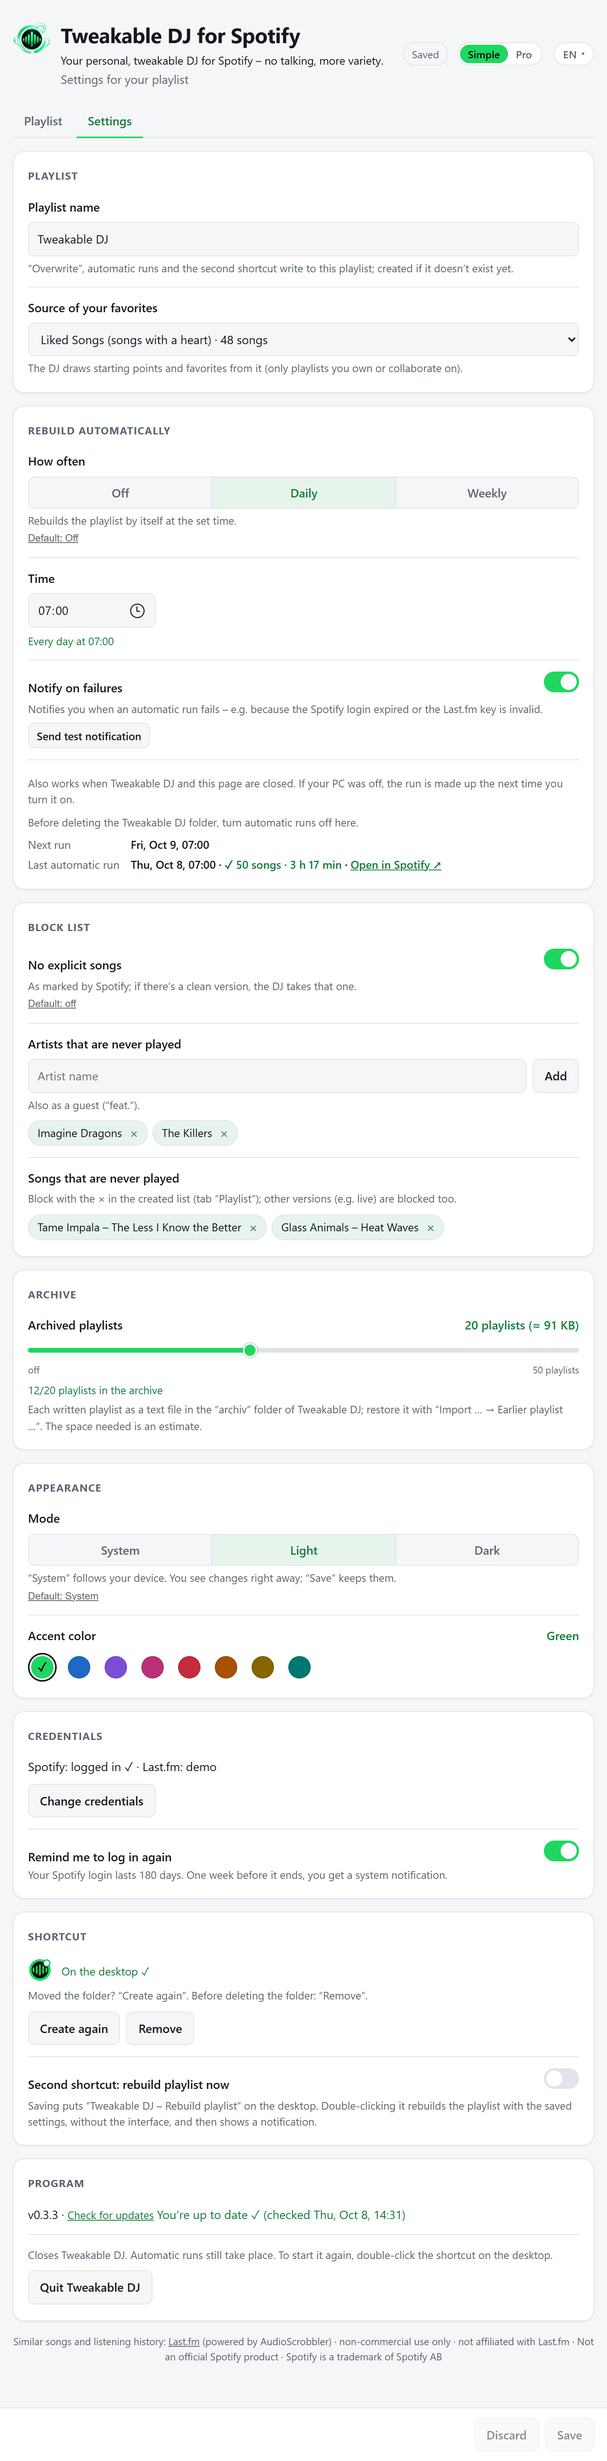
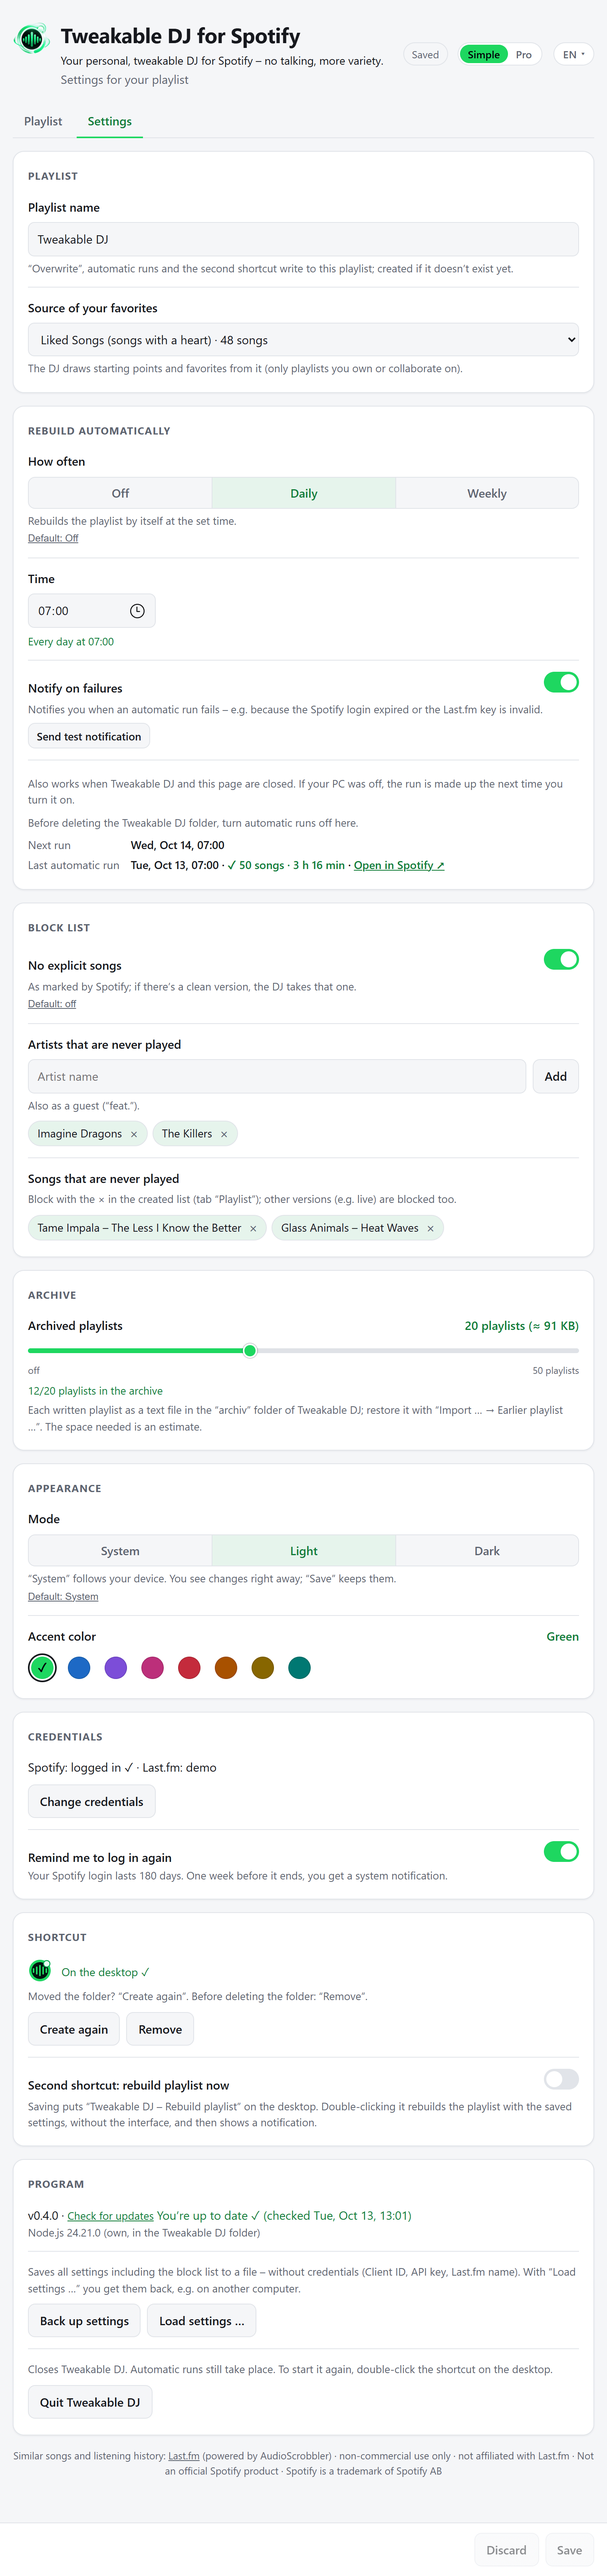
Screenshots for v0.4.0: settings with Node.js info and settings backup

diff --git a/README.de.md b/README.de.md
@@ -13,7 +13,7 @@ Die Oberfläche gibt es auf Deutsch und Englisch, außerdem auf Spanisch und Fra
 <p align="center">
   <picture>
     <source media="(prefers-color-scheme: dark)" srcset="docs/screenshot-playlist.dark.png">
-    <img src="docs/screenshot-playlist.light.png" width="440" alt="Der Tab Playlist in der Ansicht Simple (Einfach) nach Create playlist (Playlist erstellen): oben der Umschalter Simple / Pro mit Simple ausgewählt, die Voreinstellungen mit My current phase (Meine aktuelle Phase) ausgewählt, die Gruppe Length (Länge) mit Number of songs (Anzahl Songs) auf 50 Songs (≈ 3 h 17 min), die Ausgabe mit der Zusammenfassung (Created: 50 Songs · 3 h 17 min, 35 neu, 15 Favoriten · noch nicht in Spotify), den Schritten des Laufs und dem Anfang der Songliste mit × und ♥ hinter jedem Song, die Buttons Overwrite “Tweakable DJ” („Tweakable DJ“ überschreiben), Create new playlist (Neue Playlist anlegen), Save playlist (Playlist speichern) und Import … (Importieren …), der Hinweis, wie lange die Liste gilt und wie eine neue Playlist heißen würde, und ganz unten Discard, Save und Create playlist (Verwerfen, Speichern, Playlist erstellen). Englische Oberfläche.">
+    <img src="docs/screenshot-playlist.light.png" width="440" alt="Der Tab Playlist in der Ansicht Simple (Einfach) nach Create playlist (Playlist erstellen): oben der Umschalter Simple / Pro mit Simple ausgewählt, die Voreinstellungen mit My current phase (Meine aktuelle Phase) ausgewählt, die Gruppe Length (Länge) mit Number of songs (Anzahl Songs) auf 50 Songs (≈ 3 h 13 min), die Ausgabe mit der Zusammenfassung (Created: 50 Songs · 3 h 13 min, 40 neu, 10 Favoriten · noch nicht in Spotify), den Schritten des Laufs und dem Anfang der Songliste mit × und ♥ hinter jedem Song, die Buttons Overwrite “Tweakable DJ” („Tweakable DJ“ überschreiben), Create new playlist (Neue Playlist anlegen), Save playlist (Playlist speichern) und Import … (Importieren …), der Hinweis, wie lange die Liste gilt und wie eine neue Playlist heißen würde, und ganz unten Discard, Save und Create playlist (Verwerfen, Speichern, Playlist erstellen). Englische Oberfläche.">
   </picture>
 </p>
 <p align="center"><sub>Die Bilder in dieser Anleitung zeigen die englische Oberfläche; sie ist auch auf Deutsch verfügbar (Sprache oben rechts).</sub></p>
@@ -352,7 +352,7 @@ Die Seite hat zwei Tabs: **Playlist** (Voreinstellungen, Regler – in *Einfach*
 <p align="center">
   <picture>
     <source media="(prefers-color-scheme: dark)" srcset="docs/screenshot-settings.dark.png">
-    <img src="docs/screenshot-settings.light.png" width="440" alt="Der Tab Settings (Einstellungen): der Abschnitt Playlist mit Playlist name (Name der Playlist: Tweakable DJ) und Source of your favorites (Quelle deiner Favoriten: Lieblingssongs), Rebuild automatically (Automatisch neu erstellen) täglich um 07:00 mit dem nächsten Lauf und dem letzten automatischen Lauf (✓ 50 Songs · 3 h 17 min), die Sperrliste mit No explicit songs (Keine Songs mit expliziten Texten), den Künstlern Imagine Dragons und The Killers und den Songs Tame Impala – The Less I Know the Better und Glass Animals – Heat Waves, das Archiv mit Archived playlists (Archivierte Playlists) auf 20, Appearance (Aussehen) mit Modus und 8 Akzentfarben, Credentials (Zugangsdaten: bei Spotify angemeldet, Last.fm: demo) mit der Erinnerung an die Anmeldung, Shortcut (Verknüpfung: auf dem Desktop vorhanden) mit der zweiten Verknüpfung und Program (Programm) mit v0.3.0 · You’re up to date ✓ (Du hast die neueste Version) und Quit Tweakable DJ (Tweakable DJ beenden). Englische Oberfläche.">
+    <img src="docs/screenshot-settings.light.png" width="440" alt="Der Tab Settings (Einstellungen): der Abschnitt Playlist mit Playlist name (Name der Playlist: Tweakable DJ) und Source of your favorites (Quelle deiner Favoriten: Lieblingssongs), Rebuild automatically (Automatisch neu erstellen) täglich um 07:00 mit dem nächsten Lauf und dem letzten automatischen Lauf (✓ 50 Songs · 3 h 16 min), die Sperrliste mit No explicit songs (Keine Songs mit expliziten Texten), den Künstlern Imagine Dragons und The Killers und den Songs Tame Impala – The Less I Know the Better und Glass Animals – Heat Waves, das Archiv mit Archived playlists (Archivierte Playlists) auf 20, Appearance (Aussehen) mit Modus und 8 Akzentfarben, Credentials (Zugangsdaten: bei Spotify angemeldet, Last.fm: demo) mit der Erinnerung an die Anmeldung, Shortcut (Verknüpfung: auf dem Desktop vorhanden) mit der zweiten Verknüpfung und Program (Programm) mit v0.4.0 · You’re up to date ✓ (Du hast die neueste Version), Node.js 24.21.0 (own – das eigene im Ordner von Tweakable DJ), Back up settings (Einstellungen sichern), Load settings … (Einstellungen laden …) und Quit Tweakable DJ (Tweakable DJ beenden). Englische Oberfläche.">
   </picture>
 </p>
 

diff --git a/README.md b/README.md
@@ -13,7 +13,7 @@ The interface is available in English and German, and also in Spanish and French
 <p align="center">
   <picture>
     <source media="(prefers-color-scheme: dark)" srcset="docs/screenshot-playlist.dark.png">
-    <img src="docs/screenshot-playlist.light.png" width="440" alt="The tab Playlist in the view Simple after Create playlist: at the top the switch Simple / Pro with Simple selected, the presets with My current phase selected, the group Length with Number of songs at 50 songs (≈ 3 h 17 min), the output with the summary (Created: 50 songs · 3 h 17 min, 35 new, 15 favorites · not in Spotify yet), the steps of the run and the start of the song list with × and ♥ after each song, the buttons Overwrite “Tweakable DJ”, Create new playlist, Save playlist and Import …, the note how long the list can be used and what a new playlist would be called, and at the bottom Discard, Save and Create playlist.">
+    <img src="docs/screenshot-playlist.light.png" width="440" alt="The tab Playlist in the view Simple after Create playlist: at the top the switch Simple / Pro with Simple selected, the presets with My current phase selected, the group Length with Number of songs at 50 songs (≈ 3 h 13 min), the output with the summary (Created: 50 songs · 3 h 13 min, 40 new, 10 favorites · not in Spotify yet), the steps of the run and the start of the song list with × and ♥ after each song, the buttons Overwrite “Tweakable DJ”, Create new playlist, Save playlist and Import …, the note how long the list can be used and what a new playlist would be called, and at the bottom Discard, Save and Create playlist.">
   </picture>
 </p>
 
@@ -351,7 +351,7 @@ The page has two tabs: **Playlist** (presets, controls – in *Simple* only *Num
 <p align="center">
   <picture>
     <source media="(prefers-color-scheme: dark)" srcset="docs/screenshot-settings.dark.png">
-    <img src="docs/screenshot-settings.light.png" width="440" alt="The tab Settings: the section Playlist with Playlist name (Tweakable DJ) and Source of your favorites (Liked Songs), Rebuild automatically set to Daily at 07:00 with the next run and the last automatic run (✓ 50 songs · 3 h 17 min), the block list with No explicit songs, the artists Imagine Dragons and The Killers and the songs Tame Impala – The Less I Know the Better and Glass Animals – Heat Waves, the archive with Archived playlists at 20, Appearance with the mode and 8 accent colors, Credentials (Spotify: logged in, Last.fm: demo) with Remind me to log in again, Shortcut (On the desktop ✓) with the second shortcut, and Program with v0.3.0 · You’re up to date ✓ and Quit Tweakable DJ.">
+    <img src="docs/screenshot-settings.light.png" width="440" alt="The tab Settings: the section Playlist with Playlist name (Tweakable DJ) and Source of your favorites (Liked Songs), Rebuild automatically set to Daily at 07:00 with the next run and the last automatic run (✓ 50 songs · 3 h 16 min), the block list with No explicit songs, the artists Imagine Dragons and The Killers and the songs Tame Impala – The Less I Know the Better and Glass Animals – Heat Waves, the archive with Archived playlists at 20, Appearance with the mode and 8 accent colors, Credentials (Spotify: logged in, Last.fm: demo) with Remind me to log in again, Shortcut (On the desktop ✓) with the second shortcut, and Program with v0.4.0 · You’re up to date ✓, Node.js 24.21.0 (own, in the Tweakable DJ folder), Back up settings, Load settings … and Quit Tweakable DJ.">
   </picture>
 </p>
 
